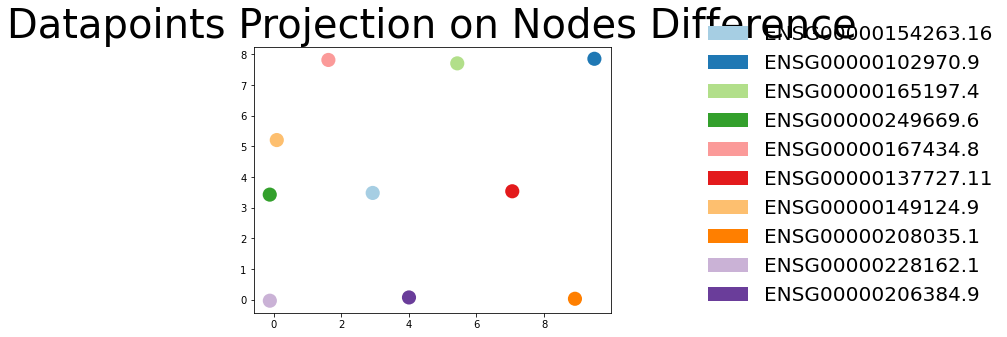
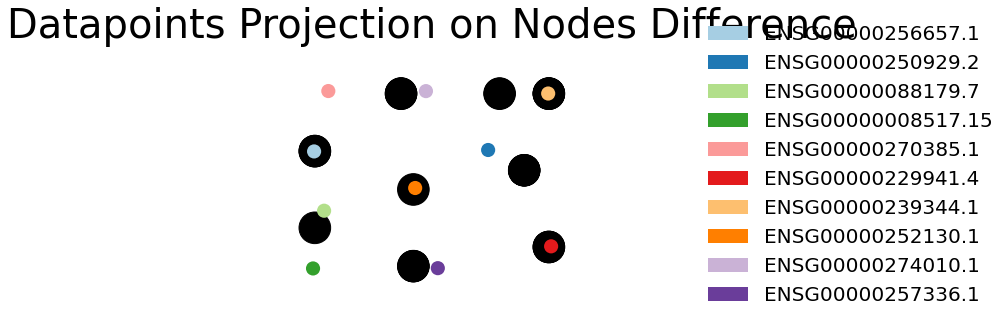
SOM_integration successfully generating png data

diff --git a/SOM_integration.py b/SOM_integration.py
@@ -37,42 +37,45 @@ if __name__ == "__main__":
     # read multi-omic csv data
     df = pd.read_csv(path)
     # extract the target variable
-    target = df[df['OMIC_ID'] == 'Target'].dropna().drop(
-        ["OMIC_ID", "GENE_ID", "miRNA_ID", "METHYL_ID"], axis=1).T
+    # skip first 4 ['Target', nan, nan, nan] because I was lazy in the previous step lol
+    target = df[df['OMIC_ID'] == 'Target'].iloc[:,
+                                                4:].to_numpy(dtype=np.int32).flatten()
+
+    # .to_numpy(dtype=np.int32)[ :, 4:].flatten()
+
+    # .drop(["OMIC_ID", "GENE_ID", "miRNA_ID", "METHYL_ID"], axis=1).T
 
     np.save(f"./patient_som_data_integration/{subtype}/target.npy", target)
     """
-        iSOM-GSN:  A filtering step was applied by removing those features whose variance was below 0.2%. 
+        iSOM-GSN:  A filtering step was applied by removing those features whose variance was below 0.2%.
         As a result, features with at least 80% zero values were removed, reducing the number of features to 16 000.
 
         Then perform Minimum Redundancy Maximum Relevance (mRMR)
     """
+    df.set_index("OMIC_ID", inplace=True)
 
-    for omic in ["GENE_ID", "miRNA_ID", "METHYL_ID"]:
+    omics = ["GENE_ID", "miRNA_ID", "METHYL_ID"]
+    for omic in omics:
         # Extract only data for the current omic
-        data = df[df[omic].notna()]
+        data = df.loc[df[omic] == df.index]
 
         # Transpose data into (patients, features) for feature engineering
-        data = data.drop("OMIC_ID", axis=1)[:-1].T
+        data = data.drop(omics, axis=1)[:-1].T
 
         # Variance thresholding
-        threshold_n = 0.8
+        threshold_n = 0.95 if omic == "METHYL_ID" else 0.8
         sel = VarianceThreshold(threshold=(threshold_n * (1 - threshold_n)))
         sel_var = sel.fit_transform(data)
         old_shape = data.shape
         data = data[data.columns[sel.get_support(indices=True)]]
         print(
-            f"Variance thresholding reduced number of omic features from {old_shape[1]} down to {data.shape[1]}.")
+            f"Variance thresholding on {omic} reduced number of omic features from {old_shape[1]} down to {data.shape[1]}.")
 
         # MRMR feature selection
+        data.columns = list(range(data.columns.size))
         K = 10
         selected_features = mrmr_classif(data, target, K=K)
-        # selected_features = [9857, 55528, 42604, 37049,
-        #                      2642, 44820, 3320, 14267, 20244, 28642] BRCA
-        old_shape = data.shape  # just for printing
         data = data[selected_features]
-        print(
-            f"Minimum Redundancy Maximum Relevance reduced number of omic features from {old_shape[1]} to {data.shape[1]}")
 
         # Transpose data back into (features, patients) for Self-Organising Map
         data_T = data.T
@@ -95,7 +98,7 @@ if __name__ == "__main__":
         net.train(start_learning_rate=learning_rate, epochs=no_of_epocs)
 
         node_positions = net.project(
-            data_T, labels=list(df["OMIC_ID"][selected_features]))
+            data_T, labels=list(df.index[selected_features]))
 
         # G = nx.chvatal_graph()
         # nx.draw_networkx_nodes(G,
@@ -157,17 +160,21 @@ if __name__ == "__main__":
             # plt.show()
 
     """  Compress .png images into single .npy file """
-    directory_path = f"patient_som_data_integration/{subtype}/"
-    directory = os.listdir(directory_path)
-    print(directory)
+    directory_path = f"./patient_som_data_integration/{subtype}/"
+    patient_subdirectories = [name for name in os.listdir(directory_path)
+                              if os.path.isdir(os.path.join(directory_path, name))]
+
     # So we still want to stack by patient on the zero-th dimension
-    #
+    # because we train-test-split the data before unpacking
+    # which means we need to bundle all the omics together
     output = []
-    for file in tqdm(directory, desc="Merging .png files..."):
-        if ".npy" in file:
-            continue
-        img = rgba_to_binary(directory_path + file)
-        output.append(img)
+    for patient_subdir in tqdm(patient_subdirectories, desc="Collecting .png files..."):
+        patient_multi_omics = []
+        for omic in omics:
+            full_path = directory_path + patient_subdir + f'/{omic}.png'
+            img = rgba_to_binary(full_path)
+            patient_multi_omics.append(img)
+        output.append(patient_multi_omics)
 
     image_array_stack = np.stack(output, axis=0)
     print(image_array_stack.shape)

diff --git a/run_integration.py b/run_integration.py
@@ -64,10 +64,10 @@ def run_hierarchical():
      to take a path for each omic we unpack...
 
     """
-
-    # Store the data in slices of size <self.s_slice>
-    store_spikes(X_train, data_handler)
-    store_spikes(X_test, data_handler, train=False)
+    for i in range(3):
+        # Store the data in slices of size <self.s_slice>
+        store_spikes(X_train[:, i], data_handler)  # TODO: param for path
+        store_spikes(X_test[:, i], data_handler, train=False)
 
     # TRAIN NETWORK
     # Iterate over the spike data in slices of size <data_handler.s_slice>
